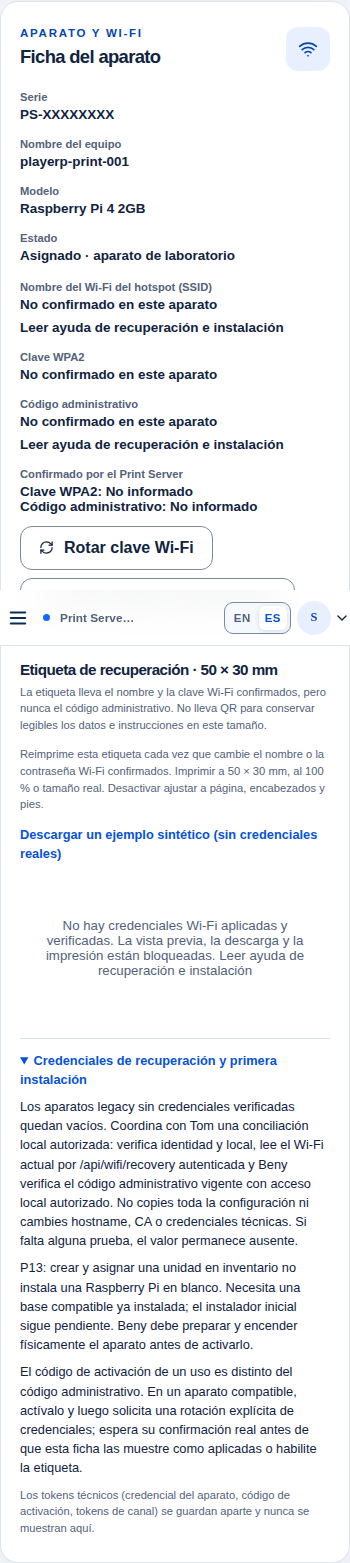
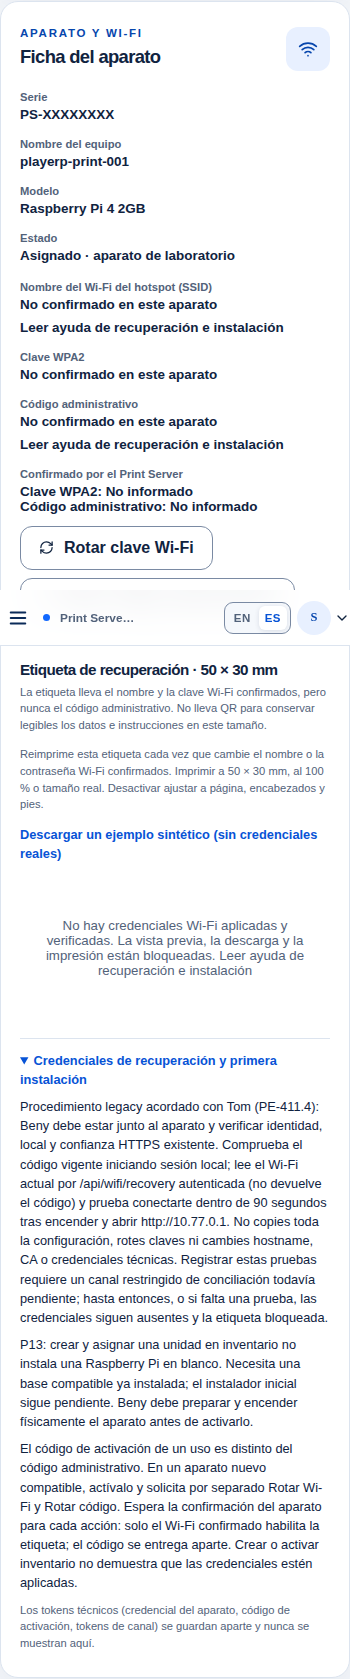
docs(portal): integrate confirmed DEV contract and agreed legacy guidance

Changed region(s): [[0.0286, 0.0, 0.9429, 0.9827], [0.8571, 0.0, 0.9143, 0.0307], [0.9714, 0.3685, 1.0, 0.3992]]

diff --git a/src/locales/es.ts b/src/locales/es.ts
@@ -717,9 +717,9 @@ export const es: Record<keyof typeof en, string> = {
   'dev.label.reprint': "Los datos Wi-Fi confirmados cambiaron. Reimprime la etiqueta con los valores actuales.",
   'dev.help.title': "Credenciales de recuperación y primera instalación",
   'dev.help.link': "Leer ayuda de recuperación e instalación",
-  'dev.help.legacy': "Los aparatos legacy sin credenciales verificadas quedan vacíos. Coordina con Tom una conciliación local autorizada: verifica identidad y local, lee el Wi-Fi actual por /api/wifi/recovery autenticada y Beny verifica el código administrativo vigente con acceso local autorizado. No copies toda la configuración ni cambies hostname, CA o credenciales técnicas. Si falta alguna prueba, el valor permanece ausente.",
+  'dev.help.legacy': "Procedimiento legacy acordado con Tom (PE-411.4): Beny debe estar junto al aparato y verificar identidad, local y confianza HTTPS existente. Comprueba el código vigente iniciando sesión local; lee el Wi-Fi actual por /api/wifi/recovery autenticada (no devuelve el código) y prueba conectarte dentro de 90 segundos tras encender y abrir http://10.77.0.1. No copies toda la configuración, rotes claves ni cambies hostname, CA o credenciales técnicas. Registrar estas pruebas requiere un canal restringido de conciliación todavía pendiente; hasta entonces, o si falta una prueba, las credenciales siguen ausentes y la etiqueta bloqueada.",
   'dev.help.p13': "P13: crear y asignar una unidad en inventario no instala una Raspberry Pi en blanco. Necesita una base compatible ya instalada; el instalador inicial sigue pendiente. Beny debe preparar y encender físicamente el aparato antes de activarlo.",
-  'dev.help.activation': "El código de activación de un uso es distinto del código administrativo. En un aparato compatible, actívalo y luego solicita una rotación explícita de credenciales; espera su confirmación real antes de que esta ficha las muestre como aplicadas o habilite la etiqueta.",
+  'dev.help.activation': "El código de activación de un uso es distinto del código administrativo. En un aparato nuevo compatible, actívalo y solicita por separado Rotar Wi-Fi y Rotar código. Espera la confirmación del aparato para cada acción: solo el Wi-Fi confirmado habilita la etiqueta; el código se entrega aparte. Crear o activar inventario no demuestra que las credenciales estén aplicadas.",
   'dev.tokensNote': "Los tokens técnicos (credencial del aparato, código de activación, tokens de canal) se guardan aparte y nunca se muestran aquí.",
   'dev.rotationRequested': "Rotación pedida. Queda pendiente hasta que el Print Server la confirme, aunque ahora esté apagado.",
   'inv.openSheet': "Abrir ficha del aparato",

diff --git a/src/locales/en.ts b/src/locales/en.ts
@@ -715,9 +715,9 @@ export const en = {
   'dev.label.reprint': "Confirmed Wi-Fi details changed. Reprint the label with the current values.",
   'dev.help.title': "Recovery credentials and first setup",
   'dev.help.link': "Read recovery and setup guidance",
-  'dev.help.legacy': "Legacy devices with no verified credentials stay blank. Coordinate an authorized local reconciliation with Tom: verify device identity and venue, read current Wi-Fi through authenticated /api/wifi/recovery, and have Beny verify the current administrative code through authorized local access. Do not copy the whole configuration or change hostname, CA, or technical credentials. If either value cannot be verified, it remains absent.",
+  'dev.help.legacy': "Agreed legacy procedure with Tom (PE-411.4): Beny must be beside the device and verify its identity, venue and existing HTTPS trust. Verify the current administrative code by signing in locally; read current Wi-Fi through authenticated /api/wifi/recovery (it does not return the code), then test joining within 90 seconds after power-on and opening http://10.77.0.1. Do not copy the whole configuration, rotate credentials or change hostname, CA or technical credentials. Recording these proofs needs a future restricted reconciliation endpoint; until then, or if any proof is missing, credentials remain absent and the label stays blocked.",
   'dev.help.p13': "P13: creating and assigning an inventory unit does not install a blank Raspberry Pi. It needs a compatible installed base; the initial installer is still pending. Beny must prepare and power the device physically before activation.",
-  'dev.help.activation': "The one-use activation code is separate from the administrative code. For a compatible device, activate it, then explicitly rotate recovery credentials and wait for its real confirmation before this sheet marks them applied or enables a label.",
+  'dev.help.activation': "The one-use activation code is separate from the administrative code. For a new compatible device, activate it, then explicitly request Rotate Wi-Fi and Rotate code separately. Wait for the device to confirm each action: only confirmed Wi-Fi enables the label; the code is delivered separately. Creating or activating inventory does not prove credentials were applied.",
   'dev.tokensNote': "Technical tokens (device credential, activation code, channel tokens) are kept apart and never shown here.",
   'dev.rotationRequested': "Rotation requested. It stays pending until the Print Server confirms it, even if it is offline now.",
   'inv.openSheet': "Open device sheet",

diff --git a/docs/print-server/pe411-beny.md b/docs/print-server/pe411-beny.md
@@ -1,10 +1,10 @@
 # Etiqueta de recuperación — complemento PE-411.3
 
-**Todavía no publicado.** La interfaz está preparada y comprobada con datos sintéticos.
-Falta que Tom aplique y pruebe la autorización y separación de credenciales en DEV, acuerde
-la conciliación legacy y devuelva sus referencias. Después Uma publica el portal.
+**Backend confirmado y aplicado en DEV por Tom** en `f071571f82a50694648c395073560d2a5bfe8226`.
+Este complemento consume el contrato acordado de credenciales confirmadas.
+La publicación y su comprobación quedan registradas en la entrega de Uma.
 
-Recorrido previsto una vez publicado:
+Recorrido en DEV:
 1. Entra en https://playerp.dev.bmore.app/admin/print-servers/inventory con tu cuenta autorizada
    y abre la ficha del aparato asignado. Como owner, abre Print Servers dentro de tu propio local.
 2. Consulta o copia el código administrativo por separado, solo si figura confirmado. Ese código
@@ -20,14 +20,18 @@ Recorrido previsto una vez publicado:
 
 **Aparato legacy:** debe comprobarse físicamente identidad y vínculo al local. La lectura local
 Wi-Fi autenticada no demuestra el código administrativo; necesitas acceso administrativo local
-para verificar este último. Tom debe acordar un canal seguro de conciliación sin copiar toda la
-configuración, rotar claves ni cambiar hostname, CA o credencial técnica. Mientras no se pueda
+para verificar este último. El [acuerdo con Tom](https://github.com/bmsynergy/saas-playerp-backend/blob/f071571f82a50694648c395073560d2a5bfe8226/_docs/print-server/pe411-credenciales-confirmadas-y-conciliacion-legacy.md)
+exige verificar el código iniciando sesión en la administración local HTTPS con la confianza
+existente. Para Wi-Fi, leer `/api/wifi/recovery` con esa sesión y comprobar la conexión dentro
+de 90 segundos tras encender, abriendo http://10.77.0.1. Sin copiar toda la configuración,
+rotar claves ni cambiar hostname, CA o credencial técnica. El canal restringido de registro
+requiere una RPC futura: este acuerdo no lo implementa ni ejecuta. El legacy sigue ausente
+y con etiqueta bloqueada hasta que se registren las pruebas por ese canal. Mientras no se pueda
 verificar un valor, permanece ausente. En este trabajo no se ha leído ni cambiado el PS real.
 
 **Raspberry nueva:** crear y asignar inventario no instala el aparato. P13 sigue pendiente:
 hace falta una base instalada compatible o un instalador inicial que no forma parte de esta pieza.
-Con esa base preparada y la activación completada, solicita explícitamente las rotaciones Wi-Fi y
-del código en un aparato compatible y espera sus confirmaciones reales; el éxito del alta no basta
+Con esa base preparada y la activación completada, pulsa por separado «Rotar Wi-Fi» y «Rotar código» en un aparato compatible y espera sus confirmaciones reales; el éxito del alta no basta
 para marcarlos aplicados. No se ejecuta ni se programa ninguna rotación u OTA en este trabajo.
 
 No se imprime QR en 50×30 mm para conservar espacio legible a los datos completos y los cuatro pasos.

diff --git a/docs/print-server/pe411-backend-contract.md b/docs/print-server/pe411-backend-contract.md
@@ -1,11 +1,22 @@
 # PE-411.3 — dependencia para Tom, solo DEV
 
-Estado: **propuesta concreta pendiente de acuerdo, implementación y comprobación de Tom**.
-No es un acuerdo ya ejecutado ni autoriza operar el PS físico. El portal no se publicará hasta
-que este contrato esté versionado en backend y aplicado en Supabase DEV `fzwzmwstxlsxdzdmphyq`.
+Estado: **contrato aceptado, implementado, versionado y aplicado por Tom en DEV**.
+Backend main: `f071571f82a50694648c395073560d2a5bfe8226` (PE-411.4).
+Migración nueva: `_migrations/20261012160000_pe411_ps_credentials_confirmed_contract.sql`;
+26/26 comprobaciones con fixtures DEV y transacción revertida, según entrega oficial de Tom.
+El portal consume la versión 1 sin cambios de forma. No se ha operado ningún PS físico.
 
-Base portal servida comprobada al comenzar: `9df27e403f248d1ae7f605956eedc9bde2fe1e19`.
-Backend leído: `0377126` en main. Migraciones nuevas en `_migrations/`, sin editar PE-384/407/408/409.
+Base portal servida revalidada al retomar: `9df27e403f248d1ae7f605956eedc9bde2fe1e19`.
+El backend `0377126` fue la lectura inicial de la propuesta y queda sustituido por el SHA anterior.
+
+Acuerdo legacy definitivo: [documento de Tom](https://github.com/bmsynergy/saas-playerp-backend/blob/f071571f82a50694648c395073560d2a5bfe8226/_docs/print-server/pe411-credenciales-confirmadas-y-conciliacion-legacy.md).
+La identidad/vínculo y confianza HTTPS se verifican junto al aparato; el código se prueba iniciando
+sesión local y el Wi-Fi mediante lectura autenticada y conexión dentro de 90 s. La futura RPC
+restringida de registro admitirá pruebas parciales, sin inventar ni rotar. No se implementa ni
+se ejecuta esa conciliación en esta pieza; el legacy permanece ausente y bloquea etiqueta.
+
+Se conserva debajo la propuesta original como antecedente; los futuros y solicitudes a Tom
+que contiene ya están resueltos por su entrega, salvo el registro legacy futuro indicado arriba.
 
 ## Contrato compatible propuesto
 

diff --git a/docs/evidence/pe411/README.md b/docs/evidence/pe411/README.md
@@ -1,3 +1,31 @@
+# PE-411 — verificación al retomar el 12-oct-2026
+
+Frontend recuperado desde `067515fc`, descendiente de la base DEV `9df27e4`.
+Revalidación HTTP antes de cambios: SHA-256 del HTML
[1 lines of base64/hex data omitted]
+GitHub backend main revalidado con `git ls-remote`: `f071571f82a50694648c395073560d2a5bfe8226`.
+Entrega oficial de Tom leída por `coredeva-leer PE-411.4`, artefacto
[1 lines of base64/hex data omitted]
+contrato aplicado en DEV, 26/26 fixtures server-side con rollback, legado ausente y acuerdo escrito.
+Esta sesión no repite sus mutaciones ni opera aparatos.
+
+Comprobaciones repetidas sobre esta integración:
+- Build correcto, solo aviso heredado del tamaño del bundle.
+- 25/25 pruebas focalizadas de etiqueta, API e inventario.
+- Navegador: 390/1440, mostrar/ocultar/copiar, alta/asignación simulada, pérdida de permiso,
+  relectura antes de exportar y cambio de aplicado invalida; cero errores. Las capturas se regeneraron.
+- Raster y composición comprobados: 590×354, pHYs 11811 por eje, blanco/negro, margen mínimo 18px,
+  serial completo y SSID sintético máximo; CSS/PDF 50×30mm. PNG inspeccionado visualmente.
+- Gaby, en esta sesión, solo lectura: sin hallazgos funcionales; dos textos de estado desactualizados
+  corregidos en la ayuda y el contrato. El acuerdo conserva la propuesta original como antecedente.
+
+Las capturas usan respuestas sintéticas interceptadas y NO prueban por sí solas autorización real.
+La evidencia server-side corresponde a Tom; la publicación se verifica en la entrega de Uma.
+
+---
+
+## Registro de la preparación anterior (conservado como historial)
+
 # PE-411.3 — comprobación focalizada del complemento
 
 **Solo fixtures sintéticos locales. No acredita permisos server-side, acuerdo legacy ni publicación DEV.**
